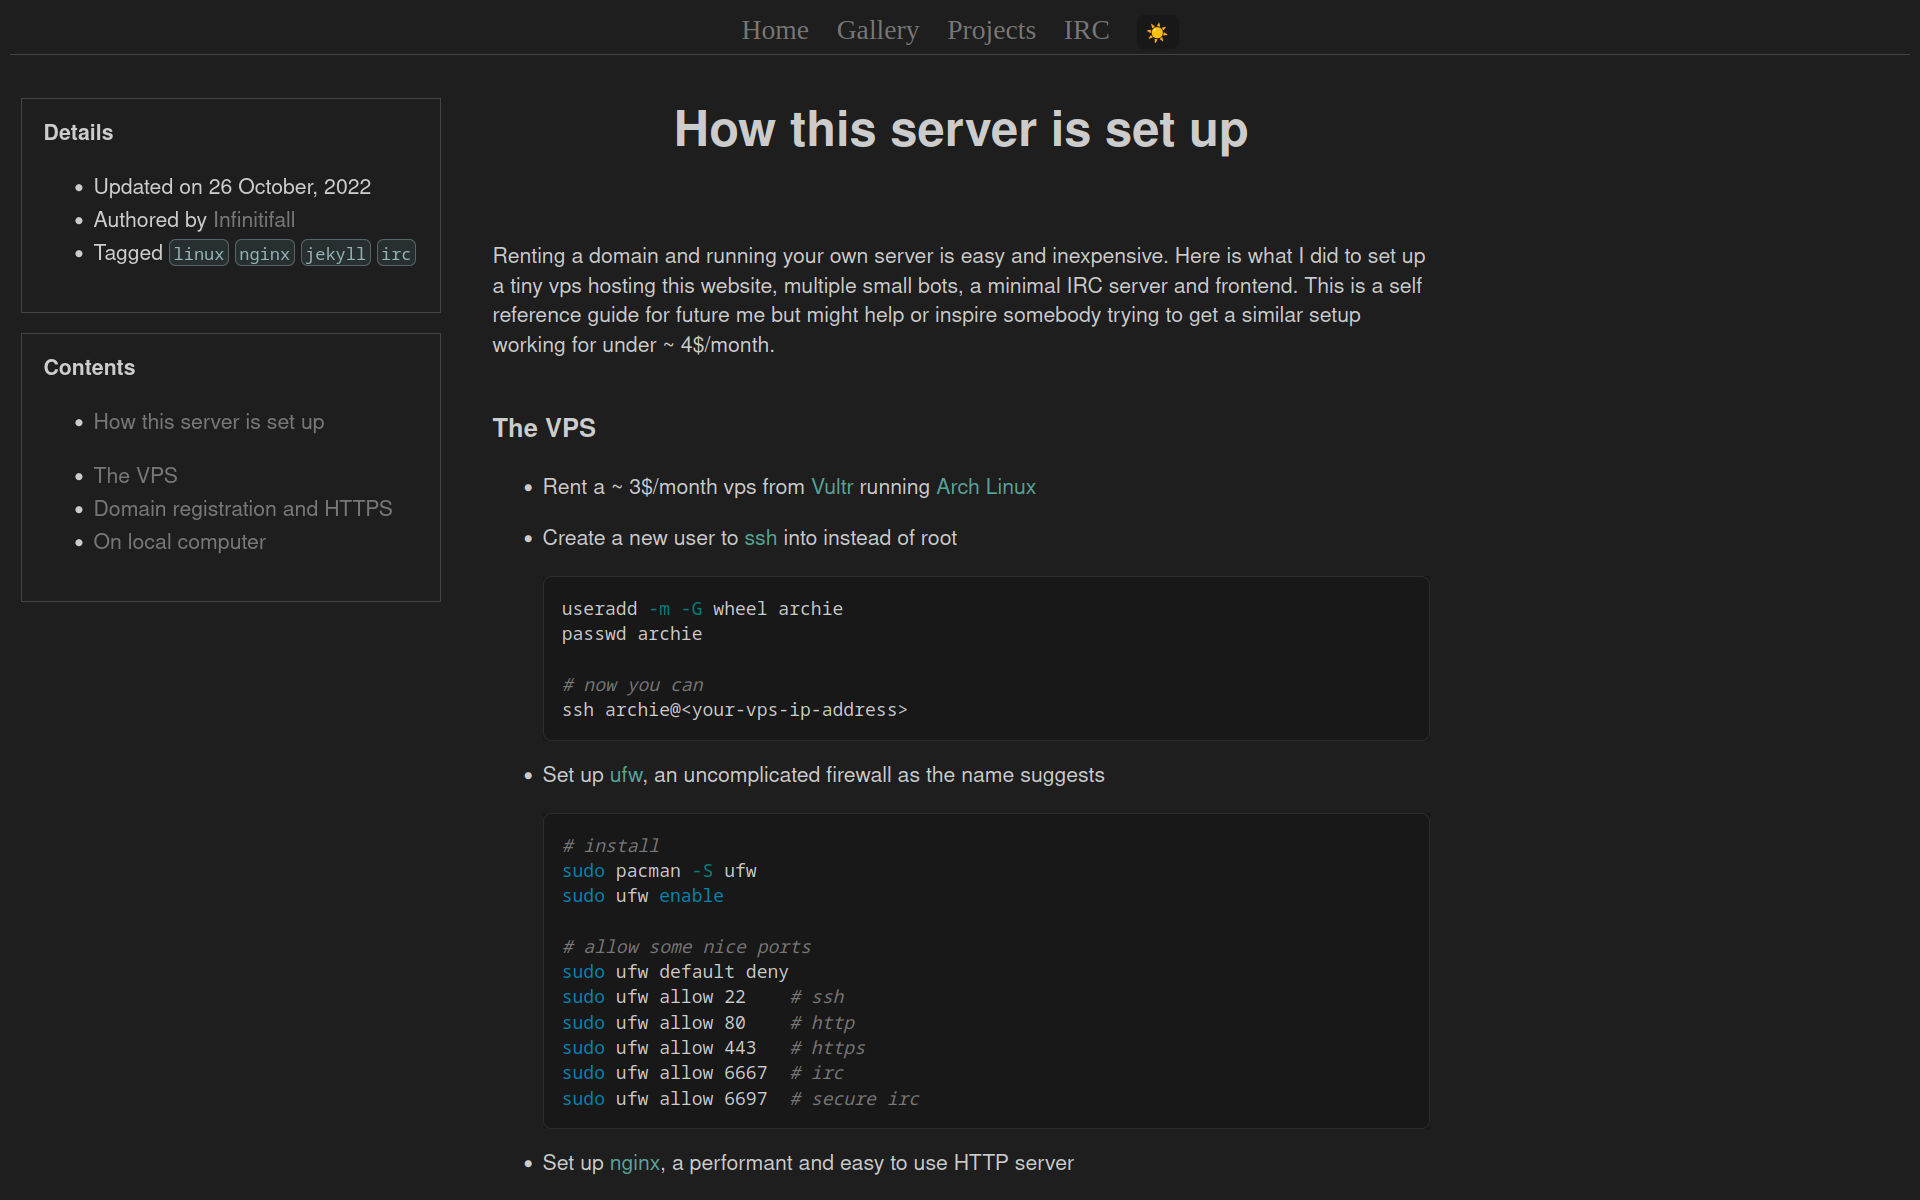
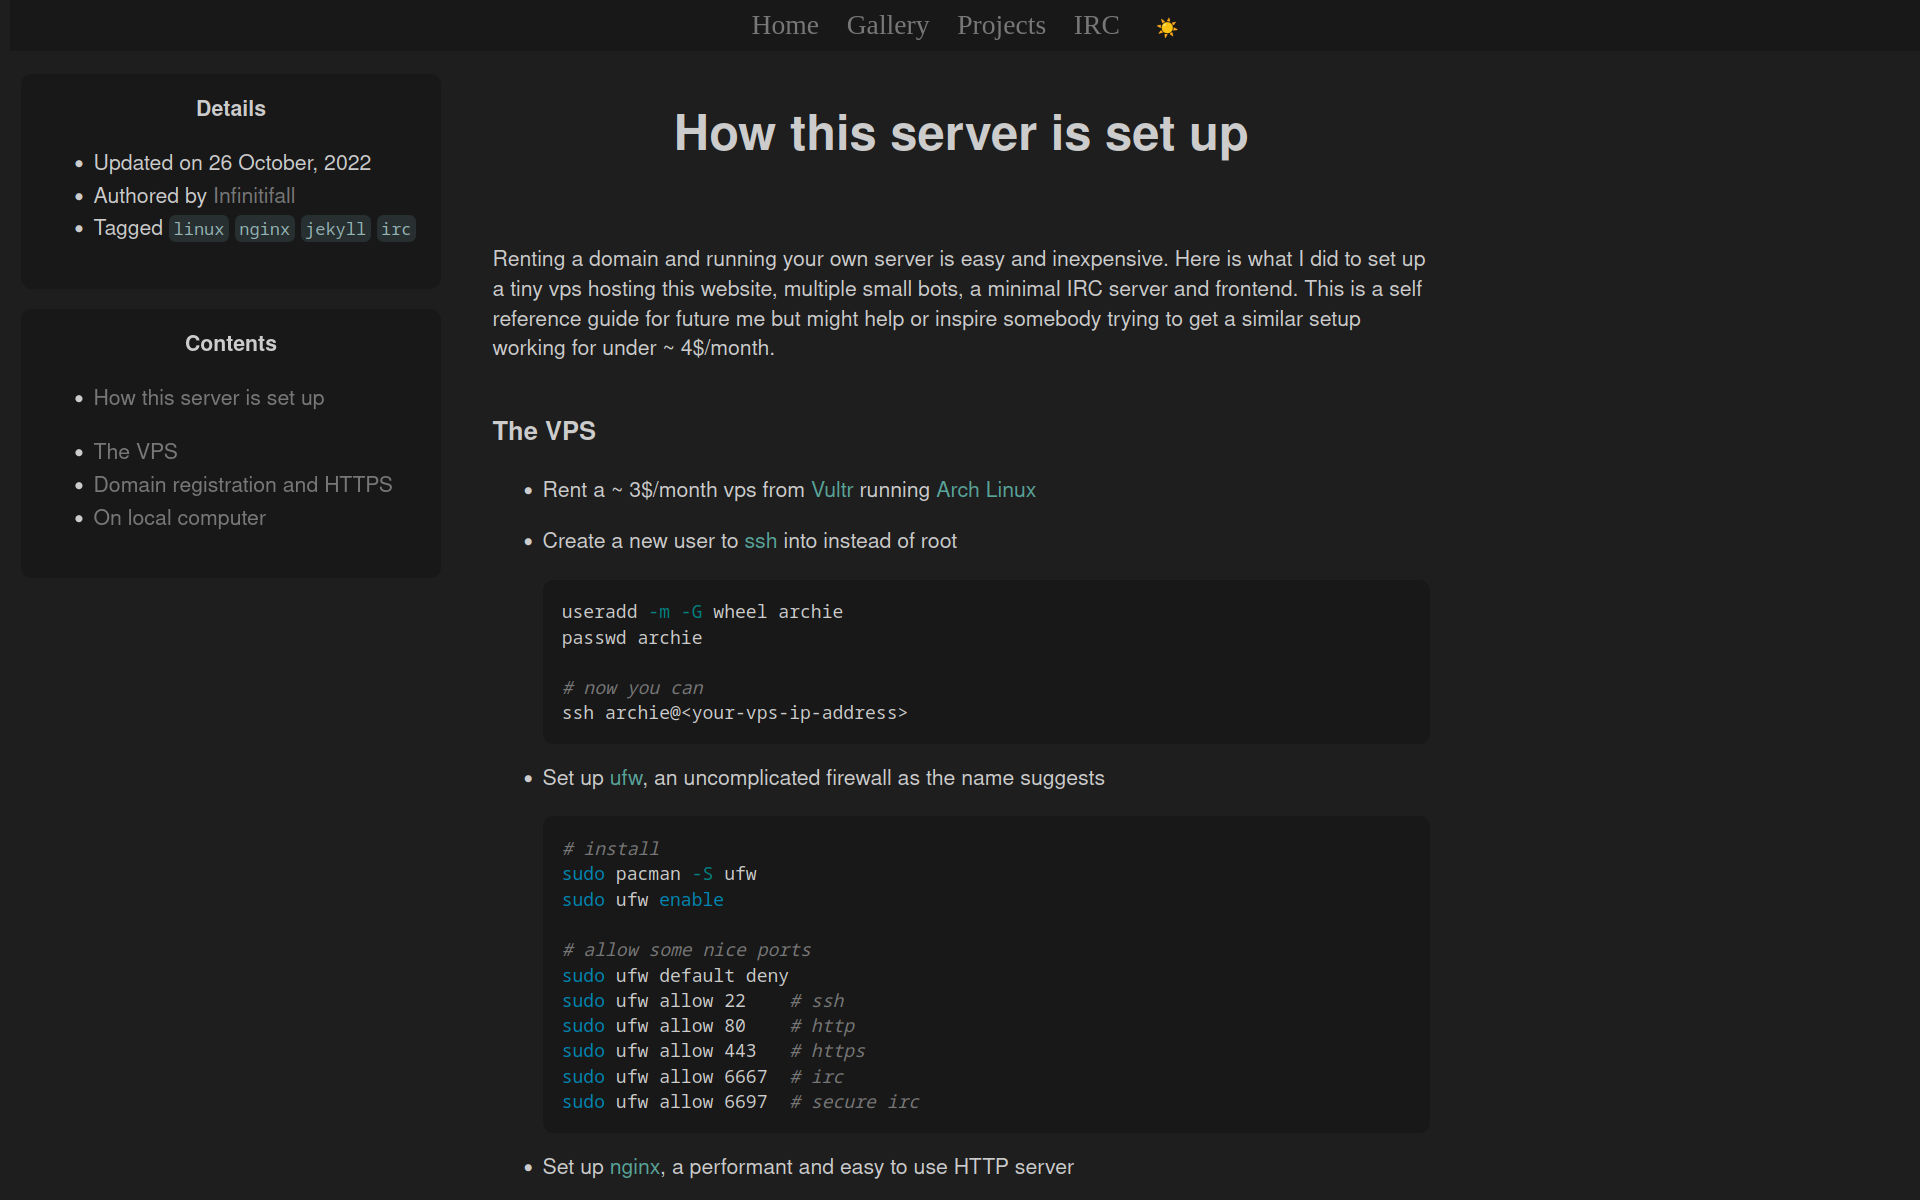
updated theme

diff --git a/_sass/malis/_layout.scss b/_sass/malis/_layout.scss
@@ -23,9 +23,19 @@
       margin-left: auto;
     }
 
-    padding: 0 3vw;
+    padding: 0.2em 0;
     border-bottom: 1px $bg-1 solid;
     padding-bottom: 0.2em;
+
+    position: fixed;
+    width: 100%;
+    background-color: $bg-0;
+    top: 0;
+    z-index: 1;
+
+    @media only screen and (max-width: 1100px) {
+      position: static;
+    }
 
     font-family: $navbar-font-family;
     font-size: $base-font-size * 1.3;
@@ -81,11 +91,12 @@
     a:hover { color: $base-text; }
     a:visited { color: $base-text; }
     text-align: center;
-    margin-top: 0.5em;
+    margin-top: 1.5em;
     margin-bottom: 1.5em;
     font-size: 2.3em;
 
     @media only screen and (max-width: 1100px) {
+      margin-top: 0.5em;
       margin-bottom: 0.25em;
     }
   }
@@ -131,11 +142,17 @@
     margin-left: 1em;
     position: fixed;
     border: 1px solid $bg-1;
+    border-radius: 0.5em;
     padding: 1em 1em;
     width: 300px;
 
     a {
       color: $grey-text;
+    }
+
+    b {
+      display: flex;
+      justify-content: center;
     }
 
     @media only screen and (max-width: 1100px) {
@@ -149,6 +166,7 @@
     // @media only screen and (max-width: 1100px) {
     //   display: block;
     //   border: 1px solid $bg-1;
+    //   border-radius: 0.5em;
     //   padding: 1em 1em;
     //   max-width: MIN($content-width, $content-max-width);
     //   width: 400px;
@@ -175,7 +193,6 @@
     user-select: none;
 
     display: flex;
-    overflow: scroll;
     justify-content: center;
 
     @media screen and (max-width: 600px) {
@@ -186,23 +203,25 @@
     .navbar-item {
       margin-right: 1em;
     }
-
-    // .theme-toggle {
-    //   float: right;
-    // }
   }
 
   .navbar-details {
     left: 0;
-    margin-top: 2em;
+    margin-top: 3em;
     margin-left: 1em;
     position: fixed;
     border: 1px solid $bg-1;
+    border-radius: 0.5em;
     padding: 1em 1em;
     width: 300px;
 
     a {
       color: $grey-text;
+    }
+
+    b {
+      display: flex;
+      justify-content: center;
     }
 
     @media only screen and (max-width: 1100px) {
@@ -274,12 +293,24 @@
       margin-left: auto;
     }
 
-    padding: 0 3vw;
-    border-bottom: 1px $bg-1-dark solid;
+    padding: 0.2em 0;
+    // border-bottom: 1px $bg-1-dark solid;
+    border-bottom: 1px transparent solid;
     padding-bottom: 0.2em;
 
     font-family: $navbar-font-family-dark;
     font-size: $base-font-size-dark * 1.3;
+
+    position: fixed;
+    width: 100%;
+    // background-color: $bg-0-dark;
+    background-color: $bg-highlight-dark;
+    top: 0;
+    z-index: 1;
+
+    @media only screen and (max-width: 1100px) {
+      position: static;
+    }
 
     a {
       text-decoration: none;
@@ -324,7 +355,7 @@
     font-size: $tag-font-size-dark;
     color: $code-tag-dark;
     background-color: $bg-tag-dark;
-    border: 1px lighten($bg-tag-dark, 20%) solid;
+    border: 1px transparent solid;
   }
 
   .page-title {
@@ -332,11 +363,12 @@
     a:hover { color: $base-text-dark; }
     a:visited { color: $base-text-dark; }
     text-align: center;
-    margin-top: 0.5em;
+    margin-top: 1.5em;
     margin-bottom: 1.5em;
     font-size: 2.3em;
 
     @media only screen and (max-width: 1100px) {
+      margin-top: 0.5em;
       margin-bottom: 0.25em;
     }
   }
@@ -369,7 +401,7 @@
     font-size: $tag-font-size-dark;
     color: $code-tag-dark;
     background-color: $bg-tag-dark;
-    border: 1px lighten($bg-tag-dark, 20%) solid;
+    border: 1px transparent solid;
   }
 
   .post-tags-list {
@@ -381,12 +413,19 @@
     margin-top: 2em;
     margin-left: 1em;
     position: fixed;
-    border: 1px solid $bg-1-dark;
+    border: 1px transparent solid;
+    background-color: $bg-highlight-dark;
+    border-radius: 0.5em;
     padding: 1em 1em;
     width: 300px;
 
     a {
       color: $grey-text-dark;
+    }
+
+    b {
+      display: flex;
+      justify-content: center;
     }
 
     @media only screen and (max-width: 1100px) {
@@ -399,7 +438,7 @@
 
     // @media only screen and (max-width: 1100px) {
     //   display: block;
-    //   border: 1px solid $bg-1-dark;
+    //   border: 1px transparent solid;
     //   padding: 1em 1em;
     //   max-width: MIN($content-width-dark, $content-max-width-dark);
     //   width: 400px;
@@ -426,7 +465,6 @@
     user-select: none;
 
     display: flex;
-    overflow: scroll;
     justify-content: center;
 
     @media screen and (max-width: 600px) {
@@ -437,23 +475,26 @@
     .navbar-item {
       margin-right: 1em;
     }
-
-    // .theme-toggle {
-    //   float: right;
-    // }
   }
 
   .navbar-details {
     left: 0;
-    margin-top: 2em;
+    margin-top: 3em;
     margin-left: 1em;
     position: fixed;
-    border: 1px solid $bg-1-dark;
+    border: 1px transparent solid;
+    background-color: $bg-highlight-dark;
+    border-radius: 0.5em;
     padding: 1em 1em;
     width: 300px;
 
     a {
       color: $grey-text-dark;
+    }
+
+    b {
+      display: flex;
+      justify-content: center;
     }
 
     @media only screen and (max-width: 1100px) {

diff --git a/_sass/malis/_base.scss b/_sass/malis/_base.scss
@@ -127,6 +127,7 @@
     margin-top: 2em;
     color: $heading-text;
     font-family: $heading-font-family;
+    scroll-margin-top: 3rem;
   }
 
   // h1, h2 { border-bottom: 1px solid $bg-1;}
@@ -270,7 +271,7 @@
     background-color: $bg-code-dark;
     padding: 0.05em 0.2em;
     border-radius: 0.4em;
-    border: 1px lighten($bg-code-dark, 20%) solid;
+    border: 1px transparent solid;
   }
 
   figure {
@@ -279,7 +280,7 @@
 
   pre {
     overflow-x: auto;
-    border: 1px $bg-pre-border-dark solid;
+    border: 1px transparent solid;
 
     > code {
       color: $code-0-dark;
@@ -311,6 +312,7 @@
     margin-top: 2em;
     color: $heading-text-dark;
     font-family: $heading-font-family-dark;
+    scroll-margin-top: 3rem;
   }
 
   // h1, h2 { border-bottom: 1px solid $bg-1-dark;}

diff --git a/_sass/malis/_syntax-highlighting.scss b/_sass/malis/_syntax-highlighting.scss
@@ -5,10 +5,7 @@
   .highlight {
     background: $bg-highlight;
     // padding: 0.1em 0.3em;
-
-    pre {
-      border-radius: 0.4em;
-    }
+    border-radius: 0.5em;
 
     code {
       color: $base-text !important;
@@ -107,10 +104,7 @@
   .highlight {
     background: $bg-highlight-dark;
     // padding: 0.1em 0.3em;
-    
-    pre {
-      border-radius: 0.4em;
-    }
+    border-radius: 0.5em;
 
     code {
       color: $base-text-dark !important;
